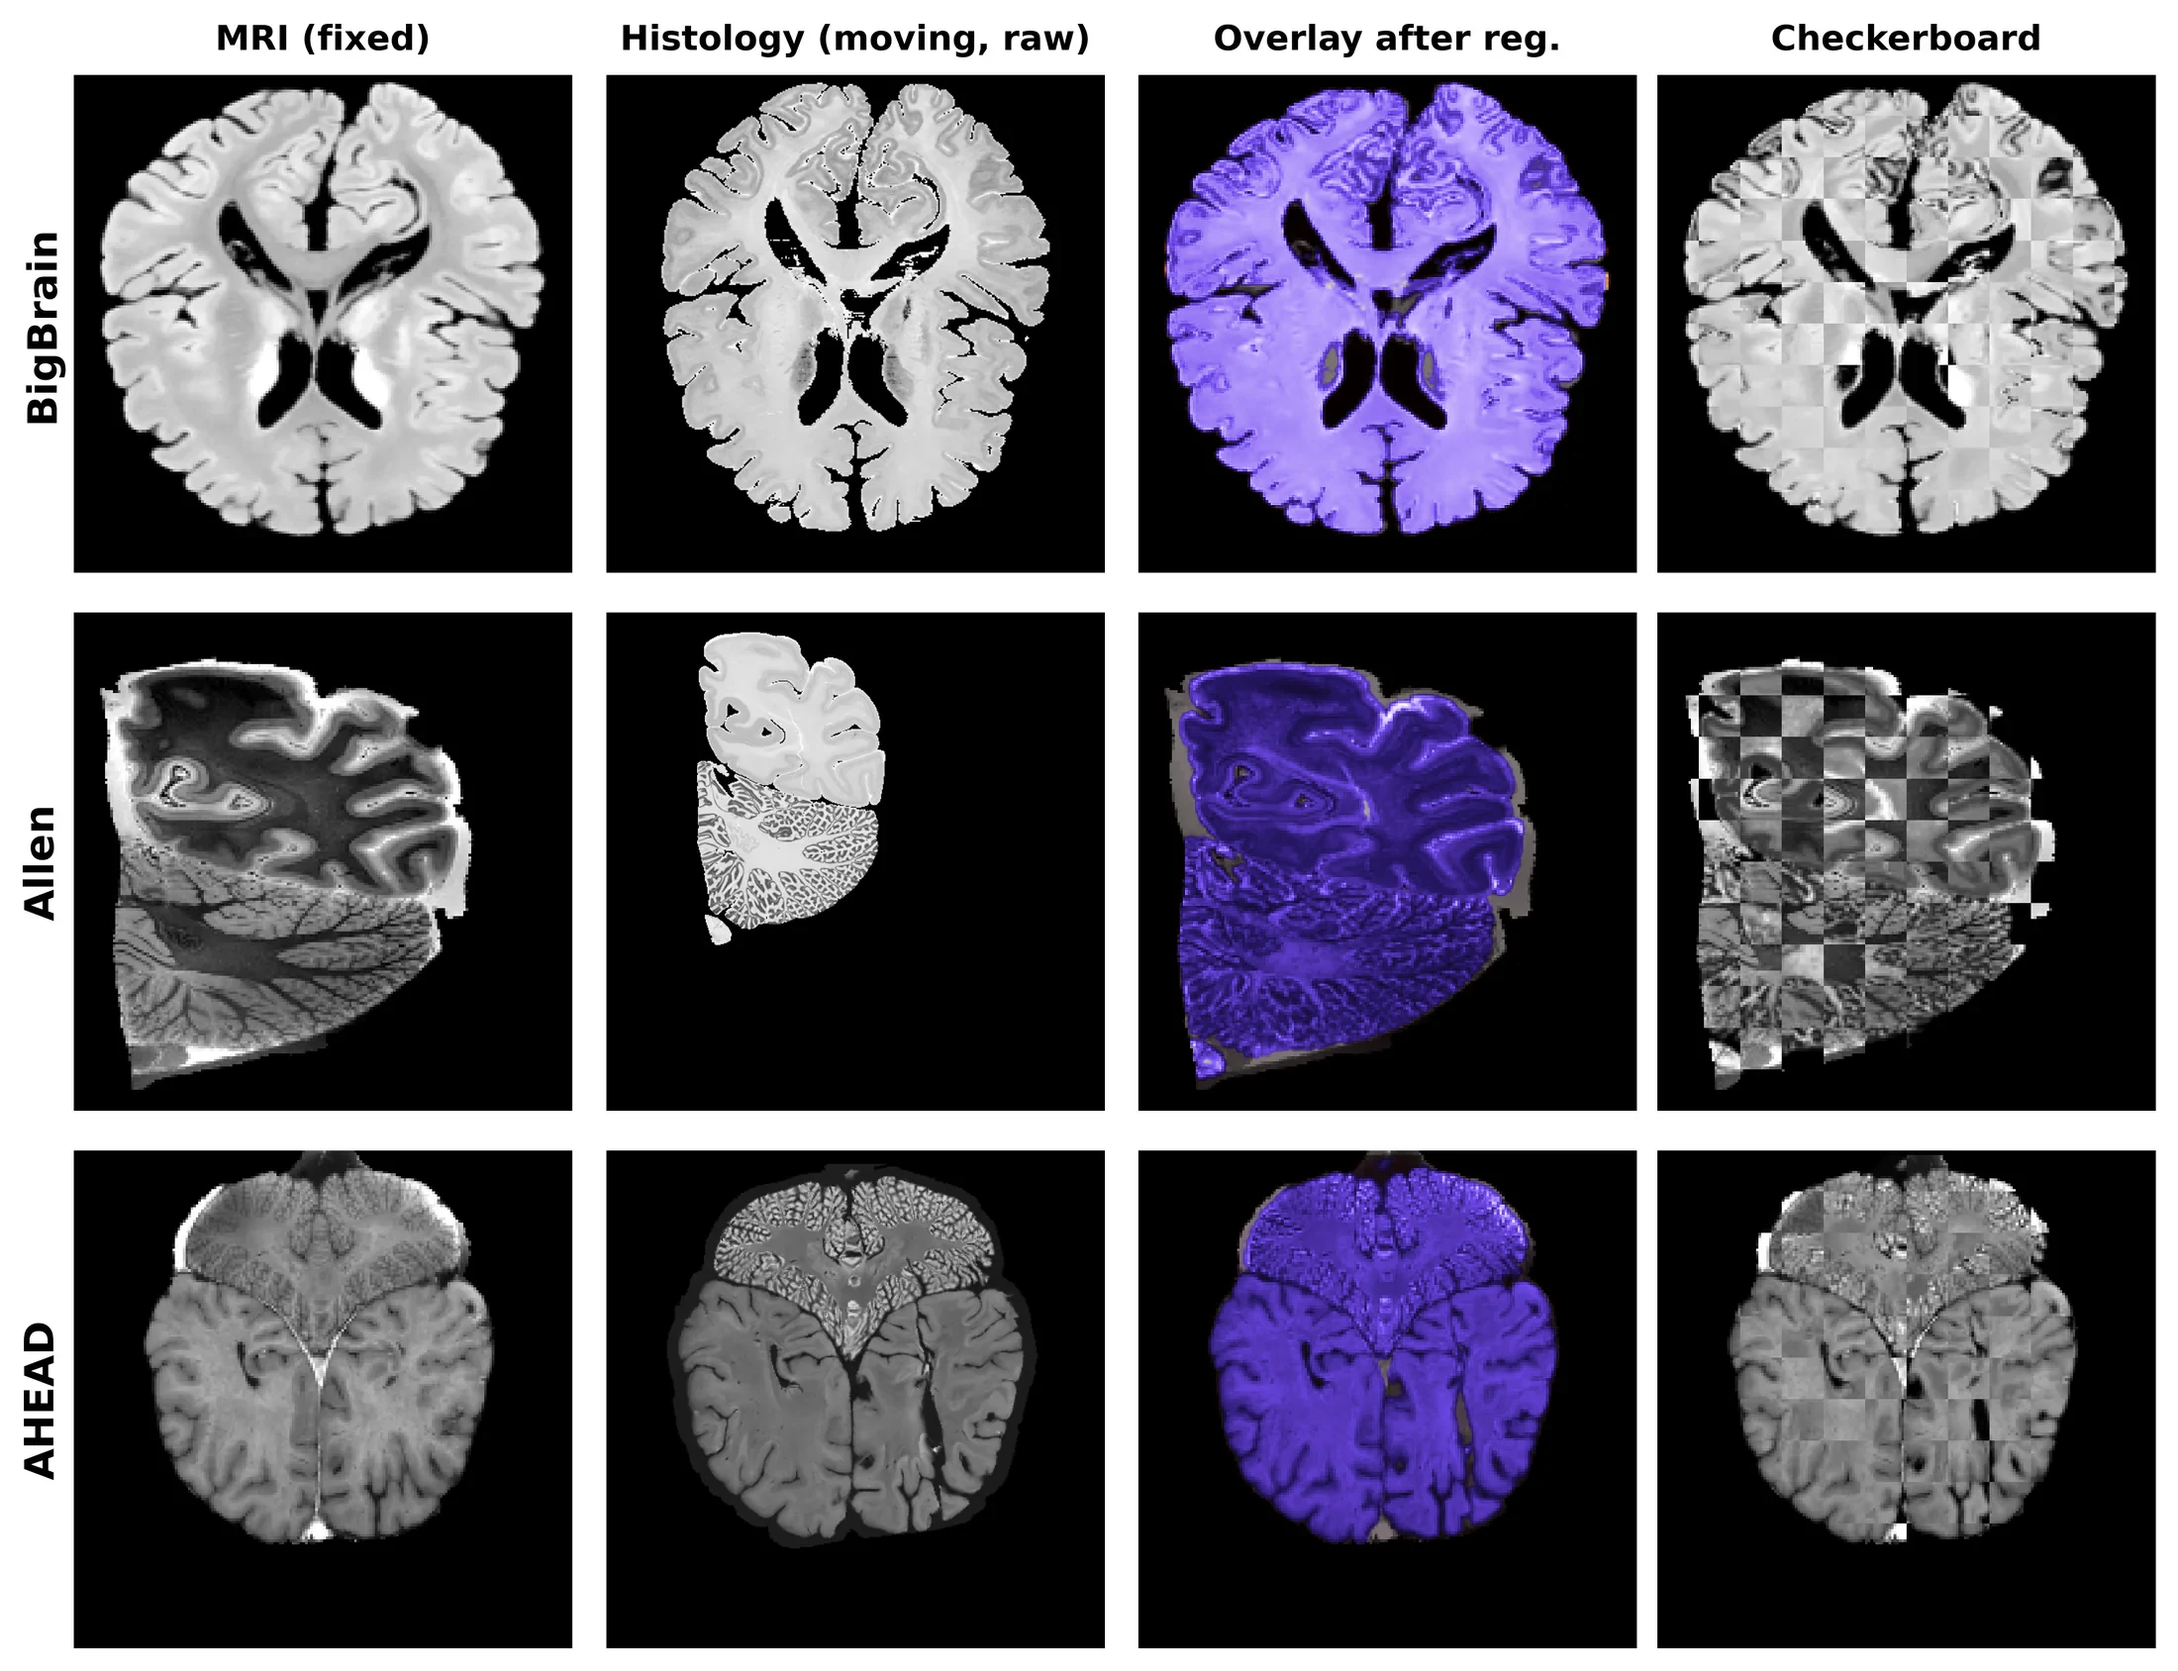
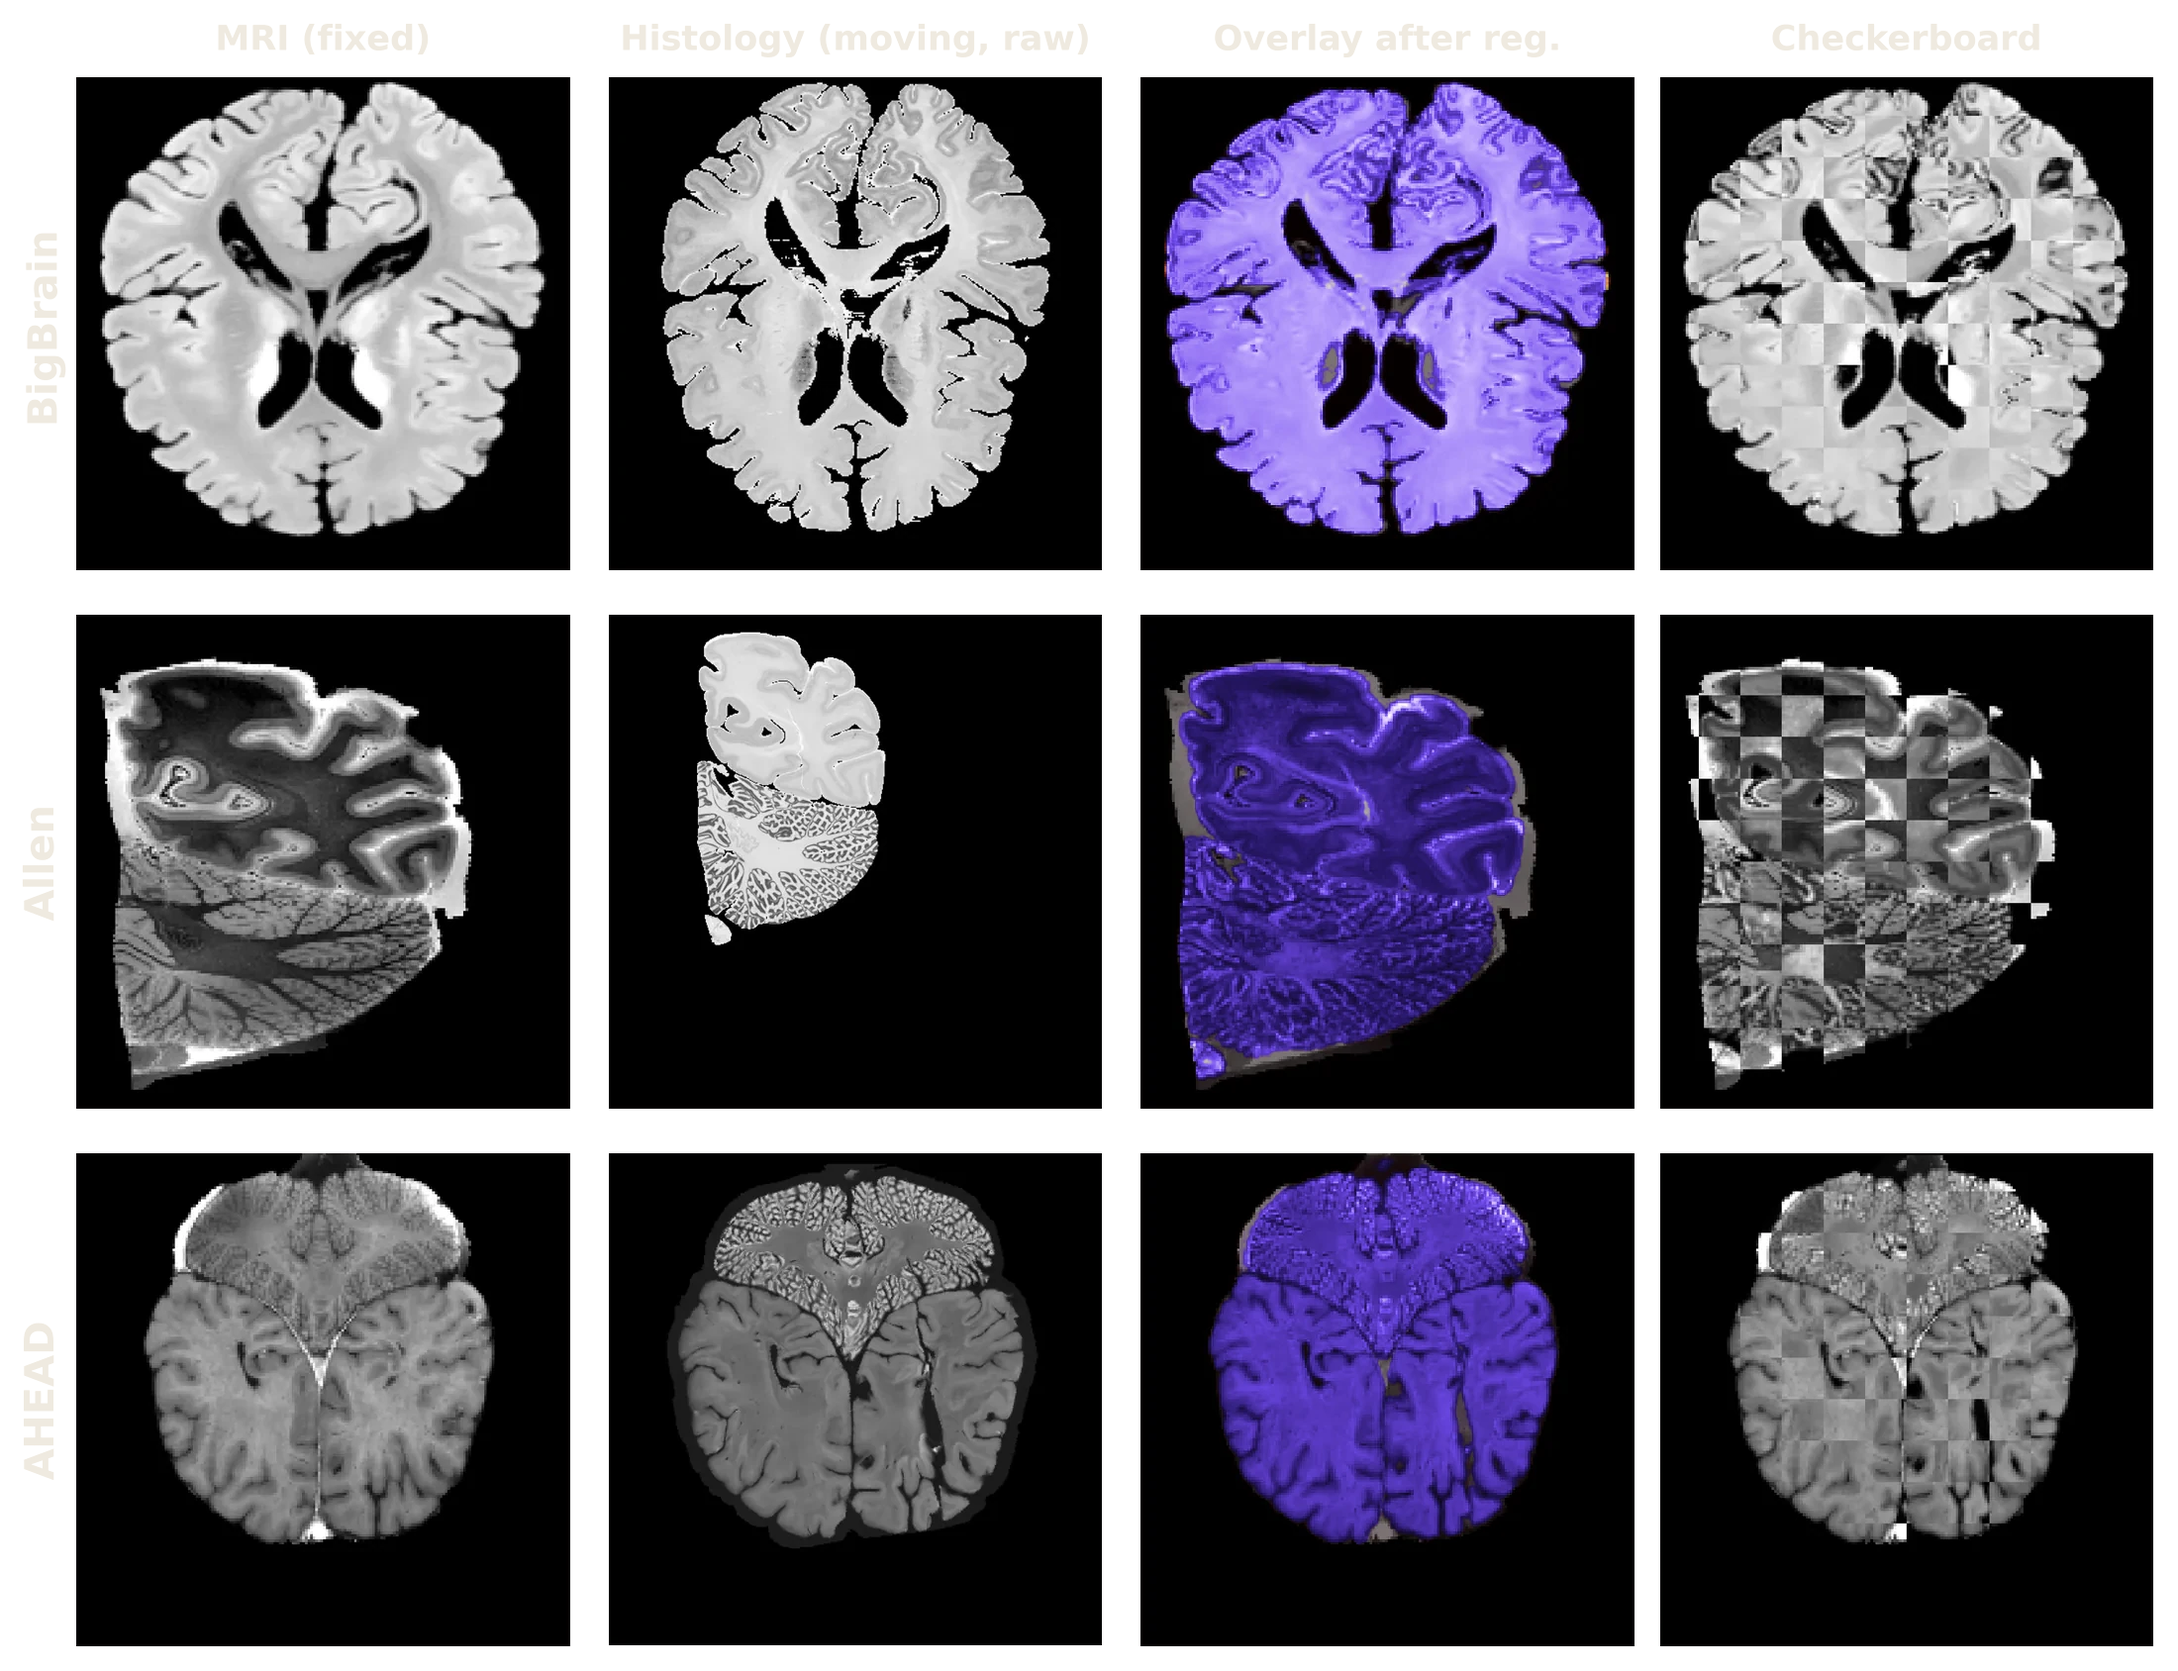
Registration figure: transparent background and light titles for the dark page

diff --git a/tools/recolour_reg.py b/tools/recolour_reg.py
@@ -1,16 +1,32 @@
-"""Poster figure: only the hot overlay column changes, to the page's violet ramp. Everything else stays as published."""
+"""Poster figure for the dark page. Inside the 12 panels only the hot overlay column changes, to the violet ramp;
+outside them the white sheet becomes transparent and its black lettering becomes the page's bone colour."""
 import sys, numpy as np
 from PIL import Image
+from scipy import ndimage as ndi
 src,out,chk=sys.argv[1:4]
 a=np.asarray(Image.open(src).convert('RGB')).astype(np.float32)/255
 h,w,_=a.shape
 sat=a.max(2)-a.min(2)
 cols=np.where((sat>0.25).mean(0)>0.02)[0]; x0,x1=cols.min(),cols.max()+1
-print('overlay columns',x0,x1,'of',w,flush=True)
-v=np.clip((a[...,0]+a[...,1]+a[...,2])/3,0,1)        # hot runs black-red-yellow-white, so the mean is monotonic
+v=np.clip(a.mean(2),0,1)                              # hot runs black-red-yellow-white, so the mean is monotonic
 xs=np.array([0,.30,.62,.85,1]); C=np.array([[.030,.026,.060],[.150,.090,.400],[.440,.290,.930],[.800,.720,1.0],[.970,.950,1.0]])
 r=np.stack([np.interp(v,xs,C[:,k]) for k in range(3)],-1)
 wgt=np.clip((sat-.04)/.12,0,1)[...,None]
 o=a.copy(); o[:,x0:x1]=(a*(1-wgt)+r*wgt)[:,x0:x1]
-im=Image.fromarray((o*255+.5).astype(np.uint8)); im.save(out,quality=88,method=6)
-im.resize((w//2,h//2)).save(chk)
+# panels: the big connected non-white blocks
+lab,n=ndi.label(v<0.9)
+boxes=[s for s in ndi.find_objects(lab) if (s[0].stop-s[0].start)>200 and (s[1].stop-s[1].start)>200]
+print('panels',len(boxes),[(b[1].start,b[0].start,b[1].stop-b[1].start,b[0].stop-b[0].start) for b in boxes[:4]])
+assert len(boxes)==12
+inside=np.zeros((h,w),bool)
+for b in boxes: inside[b]=True
+ink=np.clip((0.97-v)/0.85,0,1)                        # lettering coverage, a little ringing removed
+bone=np.array([.937,.918,.875])
+ink[ndi.binary_dilation(inside,iterations=5)&~inside]=0   # the soft edge of each panel is not lettering
+edge=inside&~ndi.binary_erosion(inside,iterations=3)      # nor is the rim of each panel: its black ground, no brain reaches it
+print('brightest pixel in the trimmed rim, before the soft edge',float(np.percentile(v[edge],50)))
+inside=inside&~edge; ink[edge]=0
+rgba=np.dstack([np.where(inside[...,None],o,bone),np.where(inside,1.0,ink)])
+im=Image.fromarray((rgba*255+.5).astype(np.uint8),'RGBA'); im.save(out,quality=90,alpha_quality=100,method=6)
+bg=Image.new('RGBA',im.size,(8,7,15,255)); bg.alpha_composite(im); bg.convert('RGB').resize((w//2,h//2)).save(chk)
+print('white-ish opaque pixels left outside panels',int(((v>.5)&~inside&(rgba[...,3]>.5)).sum()),'panels unchanged except overlay:',float(abs(rgba[...,:3]-a)[inside][:, :].mean()))
